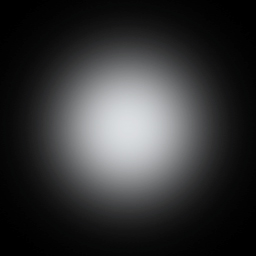
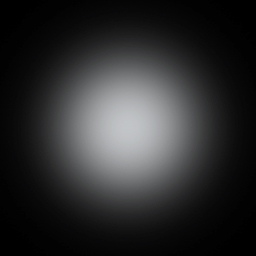
SFX Sabers updates

Changed region(s): [[0.3125, 0.3125, 0.6875, 0.6875]]

diff --git a/codemp/cgame/cg_players.c b/codemp/cgame/cg_players.c
@@ -8911,8 +8911,14 @@ void CG_DoSFXSaberMcquarrie(vec3_t blade_muz, vec3_t blade_tip, vec3_t trail_tip
 	//pulse = Q_fabs(sinf((float)cg.time / 25.0f)) * 0.25f; // Niksata Edit
 
 	//effectradius = ((radius * 1.6f * v1) + Q_flrand(-1.0f, 1.0f) * 0.1f) * radiusmult * cg_SFXSabersGlowSize.value; // Niksata Edit original value
-	coreradius = (radiusStart + Q_flrand(-1.0f, 1.0f) * radiusRange) * radiusmult * cg_SFXSabersCoreSizeMcquarrie.value; // Niksata Edit original value
-
+	if (color == SABER_BLACK) // Niksata Edit
+	{
+		coreradius = (radiusStart + Q_flrand(-1.0f, 1.0f) * radiusRange) * radiusmult * cg_SFXSabersCoreSizeOT.value; // Niksata Edit original value
+	}
+	else
+	{
+		coreradius = (radiusStart + Q_flrand(-1.0f, 1.0f) * radiusRange) * radiusmult * cg_SFXSabersCoreSizeMcquarrie.value; // Niksata Edit original value
+	} // Niksata Edit
 	//coreradius = ((radius * 0.4 * v2) + Q_flrand(-1.0f, 1.0f) * 0.1f) * radiusmult; // Niksata Edit ep3
 	//effectradius = ((radius * 1.6) + 1.5 * 0.1f) * radiusmult; // Remove v1 for even glow
 	radiusmult = 1.0f;
@@ -8925,8 +8931,14 @@ void CG_DoSFXSaberMcquarrie(vec3_t blade_muz, vec3_t blade_tip, vec3_t trail_tip
 	}
 	effectradius = (radius + Q_flrand(-1.0f, 1.0f) * radiusRange) * radiusmult; // Niksata Edit ot
 	//effectradius *= /*0.70f*/ 0.65f; // Niksata Edit ep3
-	effectradius *= cg_SFXSabersGlowSizeMcquarrie.value; // Niksata Edit ot
-
+	if (color == SABER_BLACK) // Niksata Edit
+	{
+		effectradius *= cg_SFXSabersGlowSizeOT.value; // Niksata Edit ot
+	}
+	else
+	{
+		effectradius *= cg_SFXSabersGlowSizeMcquarrie.value; // Niksata Edit ot
+	} // Niksata Edit
 	//float ignite_len, ignite_radius;
 	//ignite_len = lengthMax * 0.25f;
 	//ignite_radius = effectradius * effectradius * 1.5f;

diff --git a/codemp/cgame/cg_xcvar.h b/codemp/cgame/cg_xcvar.h
@@ -417,11 +417,11 @@ XCVAR_DEF( ui_tm2_c5_cnt,						"0",					NULL,					CVAR_ROM|CVAR_INTERNAL )
 XCVAR_DEF( ui_tm2_cnt,							"0",					NULL,					CVAR_ROM|CVAR_INTERNAL )
 XCVAR_DEF( ui_tm3_cnt,							"0",					NULL,					CVAR_ROM|CVAR_INTERNAL )
 XCVAR_DEF( cg_SFXSabers,						"1",					NULL,					CVAR_ARCHIVE ) // Niksata Edit
-XCVAR_DEF( cg_SFXSabersGlowSizeTPM,				"1",					NULL,					CVAR_ARCHIVE ) // Niksata Edit
+XCVAR_DEF( cg_SFXSabersGlowSizeTPM,				"0.9",					NULL,					CVAR_ARCHIVE ) // Niksata Edit
 XCVAR_DEF( cg_SFXSabersGlowSizeROTS,			"1",					NULL,					CVAR_ARCHIVE ) // Niksata Edit
 XCVAR_DEF( cg_SFXSabersGlowSizeOT,				"1.6",					NULL,					CVAR_ARCHIVE ) // Niksata Edit
 XCVAR_DEF( cg_SFXSabersGlowSizeMcquarrie,		"1",					NULL,					CVAR_ARCHIVE ) // Niksata Edit
-XCVAR_DEF( cg_SFXSabersGlowSizeAhsoka,			"1.1",					NULL,					CVAR_ARCHIVE ) // Niksata Edit
+XCVAR_DEF( cg_SFXSabersGlowSizeAhsoka,			"1",					NULL,					CVAR_ARCHIVE ) // Niksata Edit
 XCVAR_DEF( cg_SFXSabersCoreSizeTPM,				"1",					NULL,					CVAR_ARCHIVE ) // Niksata Edit
 XCVAR_DEF( cg_SFXSabersCoreSizeROTS,			"1",					NULL,					CVAR_ARCHIVE ) // Niksata Edit
 XCVAR_DEF( cg_SFXSabersCoreSizeOT,				"1.1",					NULL,					CVAR_ARCHIVE ) // Niksata Edit
